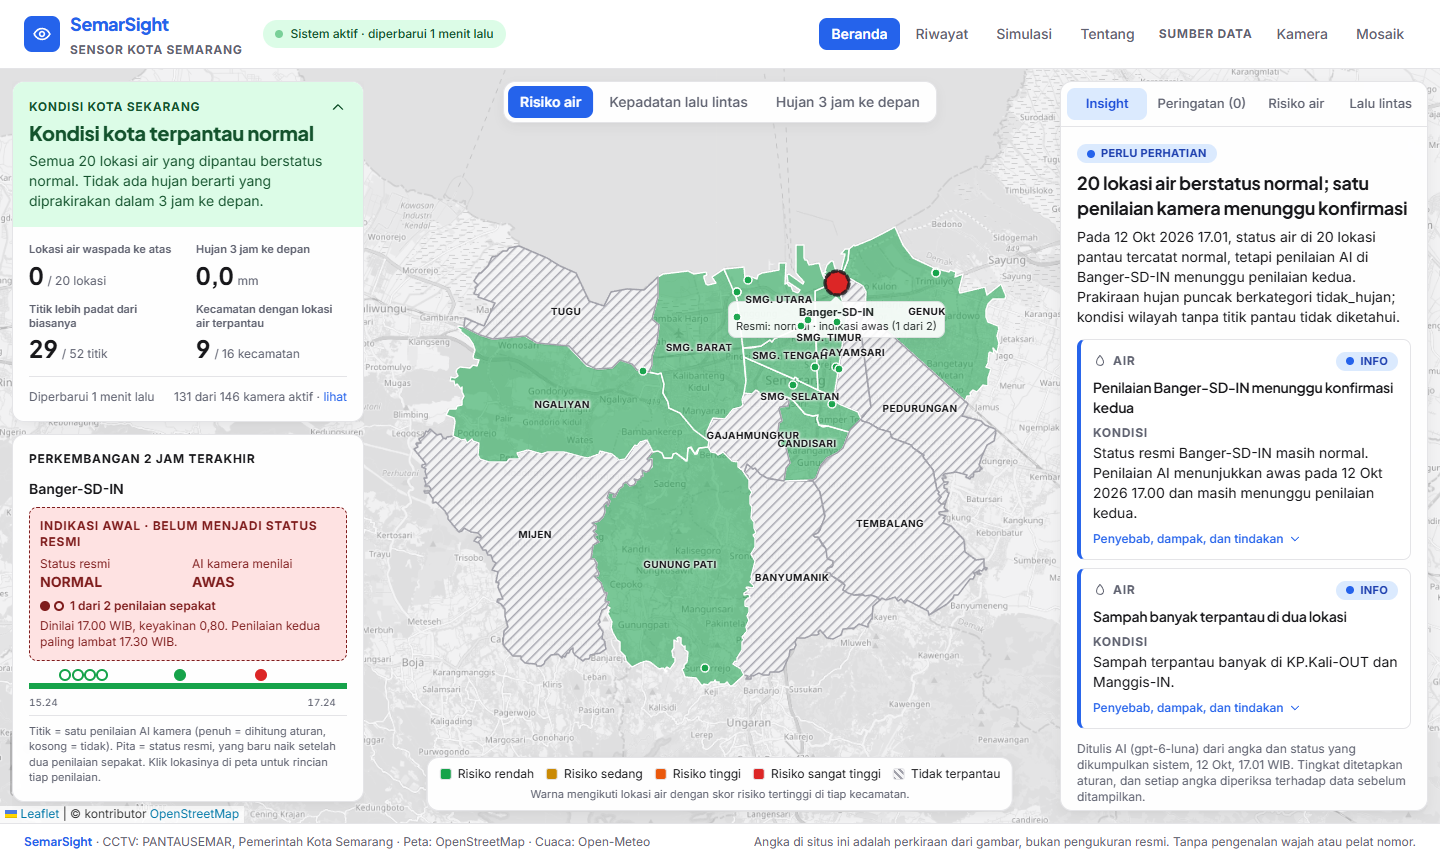
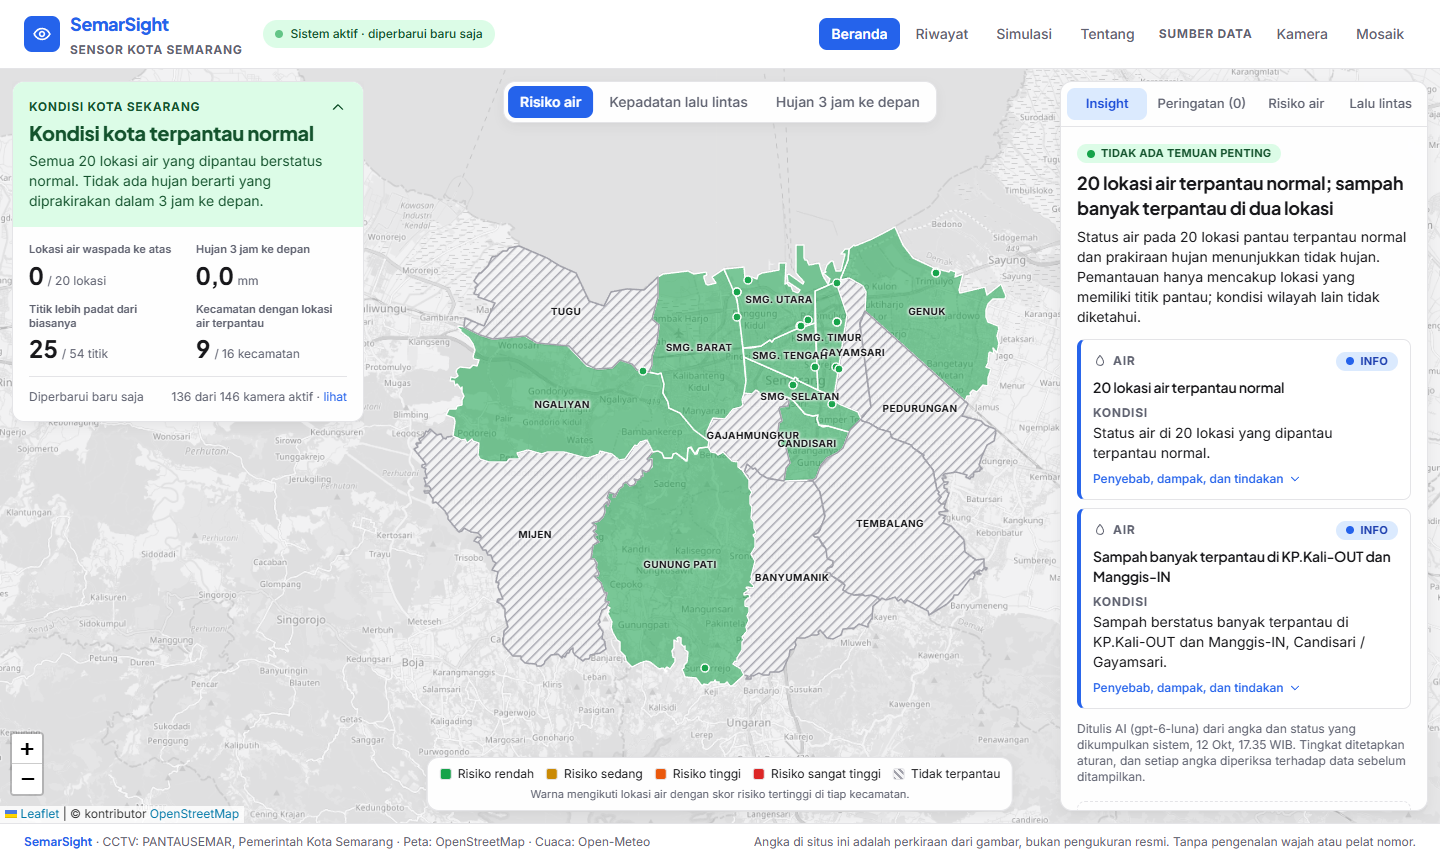
README screenshot of the calm home screen; tasklist progress

diff --git a/docs/10-tasklist.md b/docs/10-tasklist.md
@@ -19,11 +19,11 @@ Cara membaca:
 | Fase 2 — Lalu lintas, web dasar, deploy | 12 dari 14 | – | 2 | Min 11 Okt |
 | Fase 3 — Modul air | 12 dari 15 | 2 | 1 (manual) | Sen 12 Okt |
 | Fase 4 — Fusi dan insight | 6 dari 9 | 1 | 2 | Sel 13 Okt |
-| Fase 5 — Kelengkapan dan keandalan | 3 dari 8 | 1 | 4 | Rab 14 Okt |
+| Fase 5 — Kelengkapan dan keandalan | 3 dari 8 | 2 | 3 | Rab 14 Okt |
 | Fase 6 — Evaluasi, dokumen, video | 1 dari 8 | – | 7 | Kam 15 Okt |
 | Fase 7 — Pengumpulan | 0 dari 4 | – | 4 | Jum 16 Okt |
 | Arah visual (TV) | 7 dari 8 | – | 1 | – |
-| **Jumlah inti** | **61 dari 89 (69%)** | **4** | **24** | |
+| **Jumlah inti** | **61 dari 89 (69%)** | **5** | **23** | |
 | Fitur tambahan (TX) | 0 dari 6 | – | 6 | setelah inti |
 
 Hitungan per tugas di atas tidak sama dengan "progres 75%" versi lomba. Ukuran yang dipakai `08-roadmap.md` adalah: pipeline berjalan nyata dari kamera sampai web, modul air dan lalu lintas aktif, insight dan peringatan muncul, dan deploy publik stabil. Dari empat hal itu, **tiga sudah terpenuhi; yang belum adalah deploy publik.**
@@ -221,7 +221,7 @@ Pemeriksaan rutin: `scripts/calibration_check.py` dijalankan di awal tiap sesi k
 - [x] **T5.3 [K]** `/tentang`: cara kerja, atribusi PANTAUSEMAR, batasan, privasi. Selesai 12 Okt: cakupan dari data langsung (146 kamera, 20 lokasi air, 9 dari 16 kecamatan), empat langkah cara kerja, bobot skor risiko, tujuh batasan yang ditulis terus terang, privasi dan retensi, serta sumber data dan lisensinya.
 - [x] **T5.4 [K]** Cara mendemokan kejadian. Selesai 12 Okt sebagai halaman `/simulasi`: skenario 8 langkah (115 menit) dengan masukan buatan (penilaian AI tiga lokasi dan prakiraan hujan) yang dijalankan melalui aturan dan LLM asli, lalu diputar di layar yang sama dengan beranda dengan label "SIMULASI · Bukan data langsung" dan penjelasan tiap langkah. Tidak menulis apa pun ke database; data langsung tidak tersentuh. Disusun ulang dengan `worker/scripts/build_demo_scenario.py` bila aturan atau prompt berubah. `/replay` dari kejadian nyata menunggu ada kejadian yang terekam.
 - [ ] **T5.5 [M+K]** Pindahkan worker ke VPS (systemd, `Restart=always`). *Bukti:* berjalan stabil semalaman. **Sebagian** 12 Okt: worker dipindah dari laptop ke PC yang menetap (mulai 12.51 WIB, mesin diatur tidak tidur); VPS belum, dan bukti semalaman menyusul 13 Okt pagi. Worker belum menyala sendiri setelah PC restart.
-- [ ] **T5.6 [K]** Audit empat keadaan (memuat, kosong, error, usang) di semua komponen data; uji mematikan worker.
+- [ ] **T5.6 [K]** Audit empat keadaan (memuat, kosong, error, usang) di semua komponen data; uji mematikan worker. **Sebagian** 12 Okt: halaman baru (Riwayat, Tentang, Simulasi, tren di panel kecamatan) punya keadaan memuat, kosong, dan gagal; beranda menulis "Data tertunda · belum ada pembaruan sejak …" bila data langsung tidak diperbarui lebih dari 15 menit, alih-alih tetap menyebut kondisi "sekarang". **Belum:** uji dengan worker benar-benar dimatikan (sengaja ditunda agar tidak ada jeda data), dan pemeriksaan halaman kamera serta admin.
 - [ ] **T5.7 [K]** `scripts/export_eval_sample.py` + `/admin/label` + `/api/admin/labels`. Kandidat digeser.
 - [ ] **T5.8 [K]** Sinkronisasi kamera harian (`sources/pantausemar.py`) dan job malam baseline. Bagian baseline dikerjakan lebih dulu sebagai T2.14.
 
